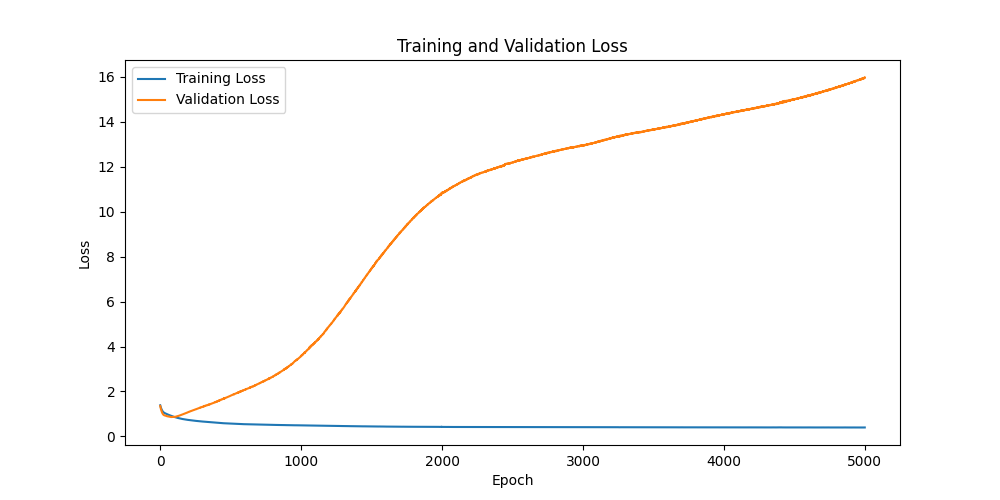
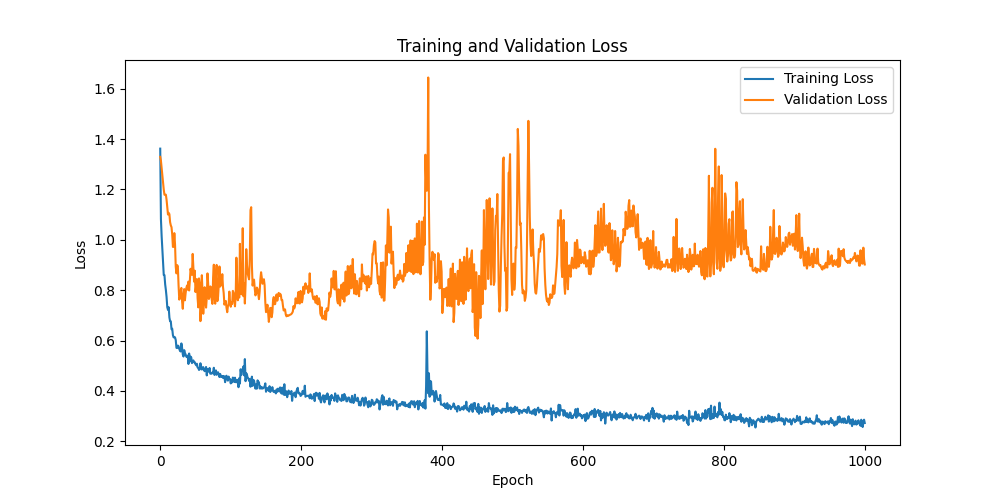
feat: 重构 wine_classifier.py 文件，新增卷积神经网络模型 WineCNN，优化数据准备流程，支持多次训练以获取最佳模型，更新训练和评估逻辑，增强模型性能和可重现性。同时更新损失曲线图。

diff --git a/wine_classifier.py b/wine_classifier.py
@@ -8,26 +8,70 @@ from sklearn.preprocessing import StandardScaler, LabelEncoder
 from sklearn.decomposition import PCA
 import matplotlib.pyplot as plt
 
-# 设置随机种子以确保结果可重现
-torch.manual_seed(42)
-np.random.seed(42)
+# # 设置随机种子以确保结果可重现
+# torch.manual_seed(42)
+# np.random.seed(42)
 
 
-# 定义神经网络模型
-class WineClassifier(nn.Module):
-    def __init__(self, input_size, hidden_size, num_classes):
-        super(WineClassifier, self).__init__()
-        self.layer1 = nn.Linear(input_size, hidden_size)
+# 检查 CUDA 是否可用
+device = torch.device("cuda" if torch.cuda.is_available() else "cpu")
+print(f"Using device: {device}")
+
+
+# 定义卷积神经网络模型
+class WineCNN(nn.Module):
+    def __init__(self, input_channels, num_classes):
+        super(WineCNN, self).__init__()
+        # 第一个卷积块
+        self.conv1 = nn.Conv1d(input_channels, 32, kernel_size=3, padding=1)
+        self.bn1 = nn.BatchNorm1d(32)
         self.relu = nn.ReLU()
-        self.layer2 = nn.Linear(hidden_size, hidden_size)
-        self.layer3 = nn.Linear(hidden_size, num_classes)
+        self.pool1 = nn.MaxPool1d(2)
+
+        # 第二个卷积块
+        self.conv2 = nn.Conv1d(32, 64, kernel_size=3, padding=1)
+        self.bn2 = nn.BatchNorm1d(64)
+        self.pool2 = nn.MaxPool1d(2)
+
+        # 第三个卷积块
+        self.conv3 = nn.Conv1d(64, 128, kernel_size=3, padding=1)
+        self.bn3 = nn.BatchNorm1d(128)
+        self.pool3 = nn.MaxPool1d(2)
+
+        # 计算全连接层的输入维度
+        # 原始序列长度是 101（20-120Hz），经过 3 次池化后长度为 101//(2^3) = 12
+        self.fc_input_size = 128 * 12
+
+        # 全连接层
+        self.fc1 = nn.Linear(self.fc_input_size, 256)
+        self.fc2 = nn.Linear(256, num_classes)
+        self.dropout = nn.Dropout(0.5)
 
     def forward(self, x):
-        x = self.layer1(x)
+        # 卷积层
+        x = self.conv1(x)
+        x = self.bn1(x)
         x = self.relu(x)
-        x = self.layer2(x)
+        x = self.pool1(x)
+
+        x = self.conv2(x)
+        x = self.bn2(x)
         x = self.relu(x)
-        x = self.layer3(x)
+        x = self.pool2(x)
+
+        x = self.conv3(x)
+        x = self.bn3(x)
+        x = self.relu(x)
+        x = self.pool3(x)
+
+        # 展平
+        x = x.view(x.size(0), -1)
+
+        # 全连接层
+        x = self.fc1(x)
+        x = self.relu(x)
+        x = self.dropout(x)
+        x = self.fc2(x)
         return x
 
 
@@ -36,7 +80,7 @@ def prepare_data():
     # 读取数据
     df = pd.read_csv("频率数据宽表.csv")
 
-    # 提取20-120Hz的阻抗值作为特征
+    # 提取 20-120Hz 的阻抗值作为特征
     frequency_columns = [str(i) for i in range(20, 121)]
     X = df[frequency_columns].values
 
@@ -44,13 +88,13 @@ def prepare_data():
     scaler = StandardScaler()
     X = scaler.fit_transform(X)
 
-    # 使用PCA进行降维
-    pca = PCA(n_components=20)  # 降维到20个主成分
-    X = pca.fit_transform(X)
-    
-    # 打印解释方差比
-    print("PCA解释方差比:", pca.explained_variance_ratio_)
-    print("累计解释方差比:", np.cumsum(pca.explained_variance_ratio_))
+    # # 使用 PCA 进行降维
+    # pca = PCA(n_components=20)  # 降维到 20 个主成分
+    # X = pca.fit_transform(X)
+
+    # # 打印解释方差比
+    # print("PCA 解释方差比：", pca.explained_variance_ratio_)
+    # print("累计解释方差比：", np.cumsum(pca.explained_variance_ratio_))
 
     # 获取类别标签
     y = df["类别"].values
@@ -59,9 +103,9 @@ def prepare_data():
     label_encoder = LabelEncoder()
     y = label_encoder.fit_transform(y)
 
-    # 转换为PyTorch张量
-    X = torch.FloatTensor(X)
-    y = torch.LongTensor(y)
+    # 转换为 PyTorch 张量并重塑为 CNN 输入格式 (batch_size, channels, sequence_length)
+    X = torch.FloatTensor(X).unsqueeze(1).to(device)  # 添加通道维度
+    y = torch.LongTensor(y).to(device)
 
     return X, y, label_encoder, df["wine_name"].values
 
@@ -98,6 +142,64 @@ def train_model(
     return train_losses, val_losses
 
 
+def train_multiple_models(
+    X_train,
+    y_train,
+    X_val,
+    y_val,
+    input_channels,
+    num_classes,
+    num_trials=5,
+    num_epochs=1000,
+):
+    best_accuracy = 0
+    best_model = None
+    best_train_losses = None
+    best_val_losses = None
+
+    for trial in range(num_trials):
+        print(f"\n开始第 {trial + 1} 次训练...")
+
+        # 创建新的模型实例
+        model = WineCNN(input_channels, num_classes).to(device)
+
+        # 定义损失函数和优化器
+        criterion = nn.CrossEntropyLoss()
+        optimizer = optim.Adam(model.parameters(), lr=0.001)
+
+        # 训练模型
+        train_losses, val_losses = train_model(
+            model,
+            X_train,
+            y_train,
+            X_val,
+            y_val,
+            criterion,
+            optimizer,
+            num_epochs=num_epochs,
+        )
+
+        # 评估模型
+        model.eval()
+        with torch.no_grad():
+            outputs = model(X_val)
+            _, predicted = torch.max(outputs.data, 1)
+            accuracy = (predicted == y_val).sum().item() / y_val.size(0)
+            print(f"第 {trial + 1} 次训练的验证集准确率：{accuracy:.4f}")
+
+        # 如果这是目前最好的模型，保存它
+        if accuracy > best_accuracy:
+            best_accuracy = accuracy
+            best_model = model
+            best_train_losses = train_losses
+            best_val_losses = val_losses
+            # 保存最佳模型
+            torch.save(model, "best_wine_classifier.pth")
+            print(f"新的最佳模型已保存，准确率：{accuracy:.4f}")
+
+    return best_model, best_train_losses, best_val_losses, best_accuracy
+
+
 def main():
     # 准备数据
     X, y, label_encoder, wine_names = prepare_data()
@@ -108,20 +210,19 @@ def main():
     )
 
     # 设置模型参数
-    input_size = X.shape[1]  # 现在输入维度为20（PCA降维后的维度）
-    hidden_size = 64  # 由于输入维度减小，可以适当减小隐藏层大小
+    input_channels = X.shape[1]  # 输入通道数
     num_classes = len(label_encoder.classes_)
 
-    # 创建模型实例
-    model = WineClassifier(input_size, hidden_size, num_classes)
-
-    # 定义损失函数和优化器
-    criterion = nn.CrossEntropyLoss()
-    optimizer = optim.Adam(model.parameters(), lr=0.001)
-
-    # 训练模型
-    train_losses, val_losses = train_model(
-        model, X_train, y_train, X_test, y_test, criterion, optimizer
+    # 多次训练并获取最佳模型
+    best_model, train_losses, val_losses, best_accuracy = train_multiple_models(
+        X_train,
+        y_train,
+        X_test,
+        y_test,
+        input_channels,
+        num_classes,
+        num_trials=5,
+        num_epochs=1000,
     )
 
     # 绘制损失曲线
@@ -135,16 +236,13 @@ def main():
     plt.savefig("loss_curve.png")
     plt.close()
 
-    # 评估模型
-    model.eval()
+    # 评估最佳模型
+    best_model.eval()
     with torch.no_grad():
-        outputs = model(X_test)
+        outputs = best_model(X_test)
         _, predicted = torch.max(outputs.data, 1)
         accuracy = (predicted == y_test).sum().item() / y_test.size(0)
-        print(f"Test Accuracy: {accuracy:.4f}")
-
-    # 保存模型
-    # torch.save(model.state_dict(), "wine_classifier.pth")
+        print(f"最佳模型在测试集上的准确率：{accuracy:.4f}")
 
     # 打印类别映射
     print("\n类别编码映射：")

diff --git a/wine_inference.py b/wine_inference.py
@@ -1,0 +1,118 @@
+import torch
+import numpy as np
+from sklearn.preprocessing import StandardScaler
+import pandas as pd
+
+class WineClassifier:
+    def __init__(self, model_path="best_wine_classifier.pth"):
+        # 检查 CUDA 是否可用
+        self.device = torch.device("cuda" if torch.cuda.is_available() else "cpu")
+        print(f"Using device: {self.device}")
+        
+        # 加载模型
+        self.model = self._load_model(model_path)
+        self.model.eval()  # 设置为评估模式
+        
+        # 初始化标准化器
+        self.scaler = StandardScaler()
+        
+    def _load_model(self, model_path):
+        # 定义模型结构
+        class WineCNN(torch.nn.Module):
+            def __init__(self, input_channels=1, num_classes=3):
+                super(WineCNN, self).__init__()
+                self.conv1 = torch.nn.Conv1d(input_channels, 32, kernel_size=3, padding=1)
+                self.bn1 = torch.nn.BatchNorm1d(32)
+                self.relu = torch.nn.ReLU()
+                self.pool1 = torch.nn.MaxPool1d(2)
+
+                self.conv2 = torch.nn.Conv1d(32, 64, kernel_size=3, padding=1)
+                self.bn2 = torch.nn.BatchNorm1d(64)
+                self.pool2 = torch.nn.MaxPool1d(2)
+
+                self.conv3 = torch.nn.Conv1d(64, 128, kernel_size=3, padding=1)
+                self.bn3 = torch.nn.BatchNorm1d(128)
+                self.pool3 = torch.nn.MaxPool1d(2)
+
+                self.fc_input_size = 128 * 12
+                self.fc1 = torch.nn.Linear(self.fc_input_size, 256)
+                self.fc2 = torch.nn.Linear(256, num_classes)
+                self.dropout = torch.nn.Dropout(0.5)
+
+            def forward(self, x):
+                x = self.conv1(x)
+                x = self.bn1(x)
+                x = self.relu(x)
+                x = self.pool1(x)
+
+                x = self.conv2(x)
+                x = self.bn2(x)
+                x = self.relu(x)
+                x = self.pool2(x)
+
+                x = self.conv3(x)
+                x = self.bn3(x)
+                x = self.relu(x)
+                x = self.pool3(x)
+
+                x = x.view(x.size(0), -1)
+                x = self.fc1(x)
+                x = self.relu(x)
+                x = self.dropout(x)
+                x = self.fc2(x)
+                return x
+
+        # 创建模型实例并加载权重
+        model = WineCNN()
+        model.load_state_dict(torch.load(model_path, map_location=self.device))
+        model.to(self.device)
+        return model
+
+    def preprocess_data(self, data):
+        """预处理输入数据"""
+        # 确保数据是 numpy 数组
+        if isinstance(data, pd.DataFrame):
+            data = data.values
+        
+        # 标准化数据
+        data = self.scaler.fit_transform(data)
+        
+        # 转换为 PyTorch 张量并添加通道维度
+        data = torch.FloatTensor(data).unsqueeze(1).to(self.device)
+        return data
+
+    def predict(self, data):
+        """进行预测"""
+        # 预处理数据
+        processed_data = self.preprocess_data(data)
+        
+        # 进行预测
+        with torch.no_grad():
+            outputs = self.model(processed_data)
+            _, predicted = torch.max(outputs.data, 1)
+            probabilities = torch.nn.functional.softmax(outputs, dim=1)
+            
+        return predicted.cpu().numpy(), probabilities.cpu().numpy()
+
+def main():
+    # 创建分类器实例
+    classifier = WineClassifier()
+    
+    # 示例：读取测试数据
+    try:
+        df = pd.read_csv("频率数据宽表.csv")
+        frequency_columns = [str(i) for i in range(20, 121)]
+        test_data = df[frequency_columns].values
+        
+        # 进行预测
+        predictions, probabilities = classifier.predict(test_data)
+        
+        # 打印结果
+        print("预测结果：", predictions)
+        print("预测概率：", probabilities)
+        
+    except Exception as e:
+        print(f"错误：{str(e)}")
+
+if __name__ == "__main__":
+    main() 

diff --git a/models/README.md b/models/README.md
@@ -1,0 +1,12 @@
+
+best_model_cnn.pth
+```sh
+第 5 次训练的验证集准确率：0.8049
+最佳模型在测试集上的准确率：0.8293
+
+类别编码映射：
+啤酒: 0
+果酒: 1
+白酒: 2
+鸡尾酒: 3
+```
